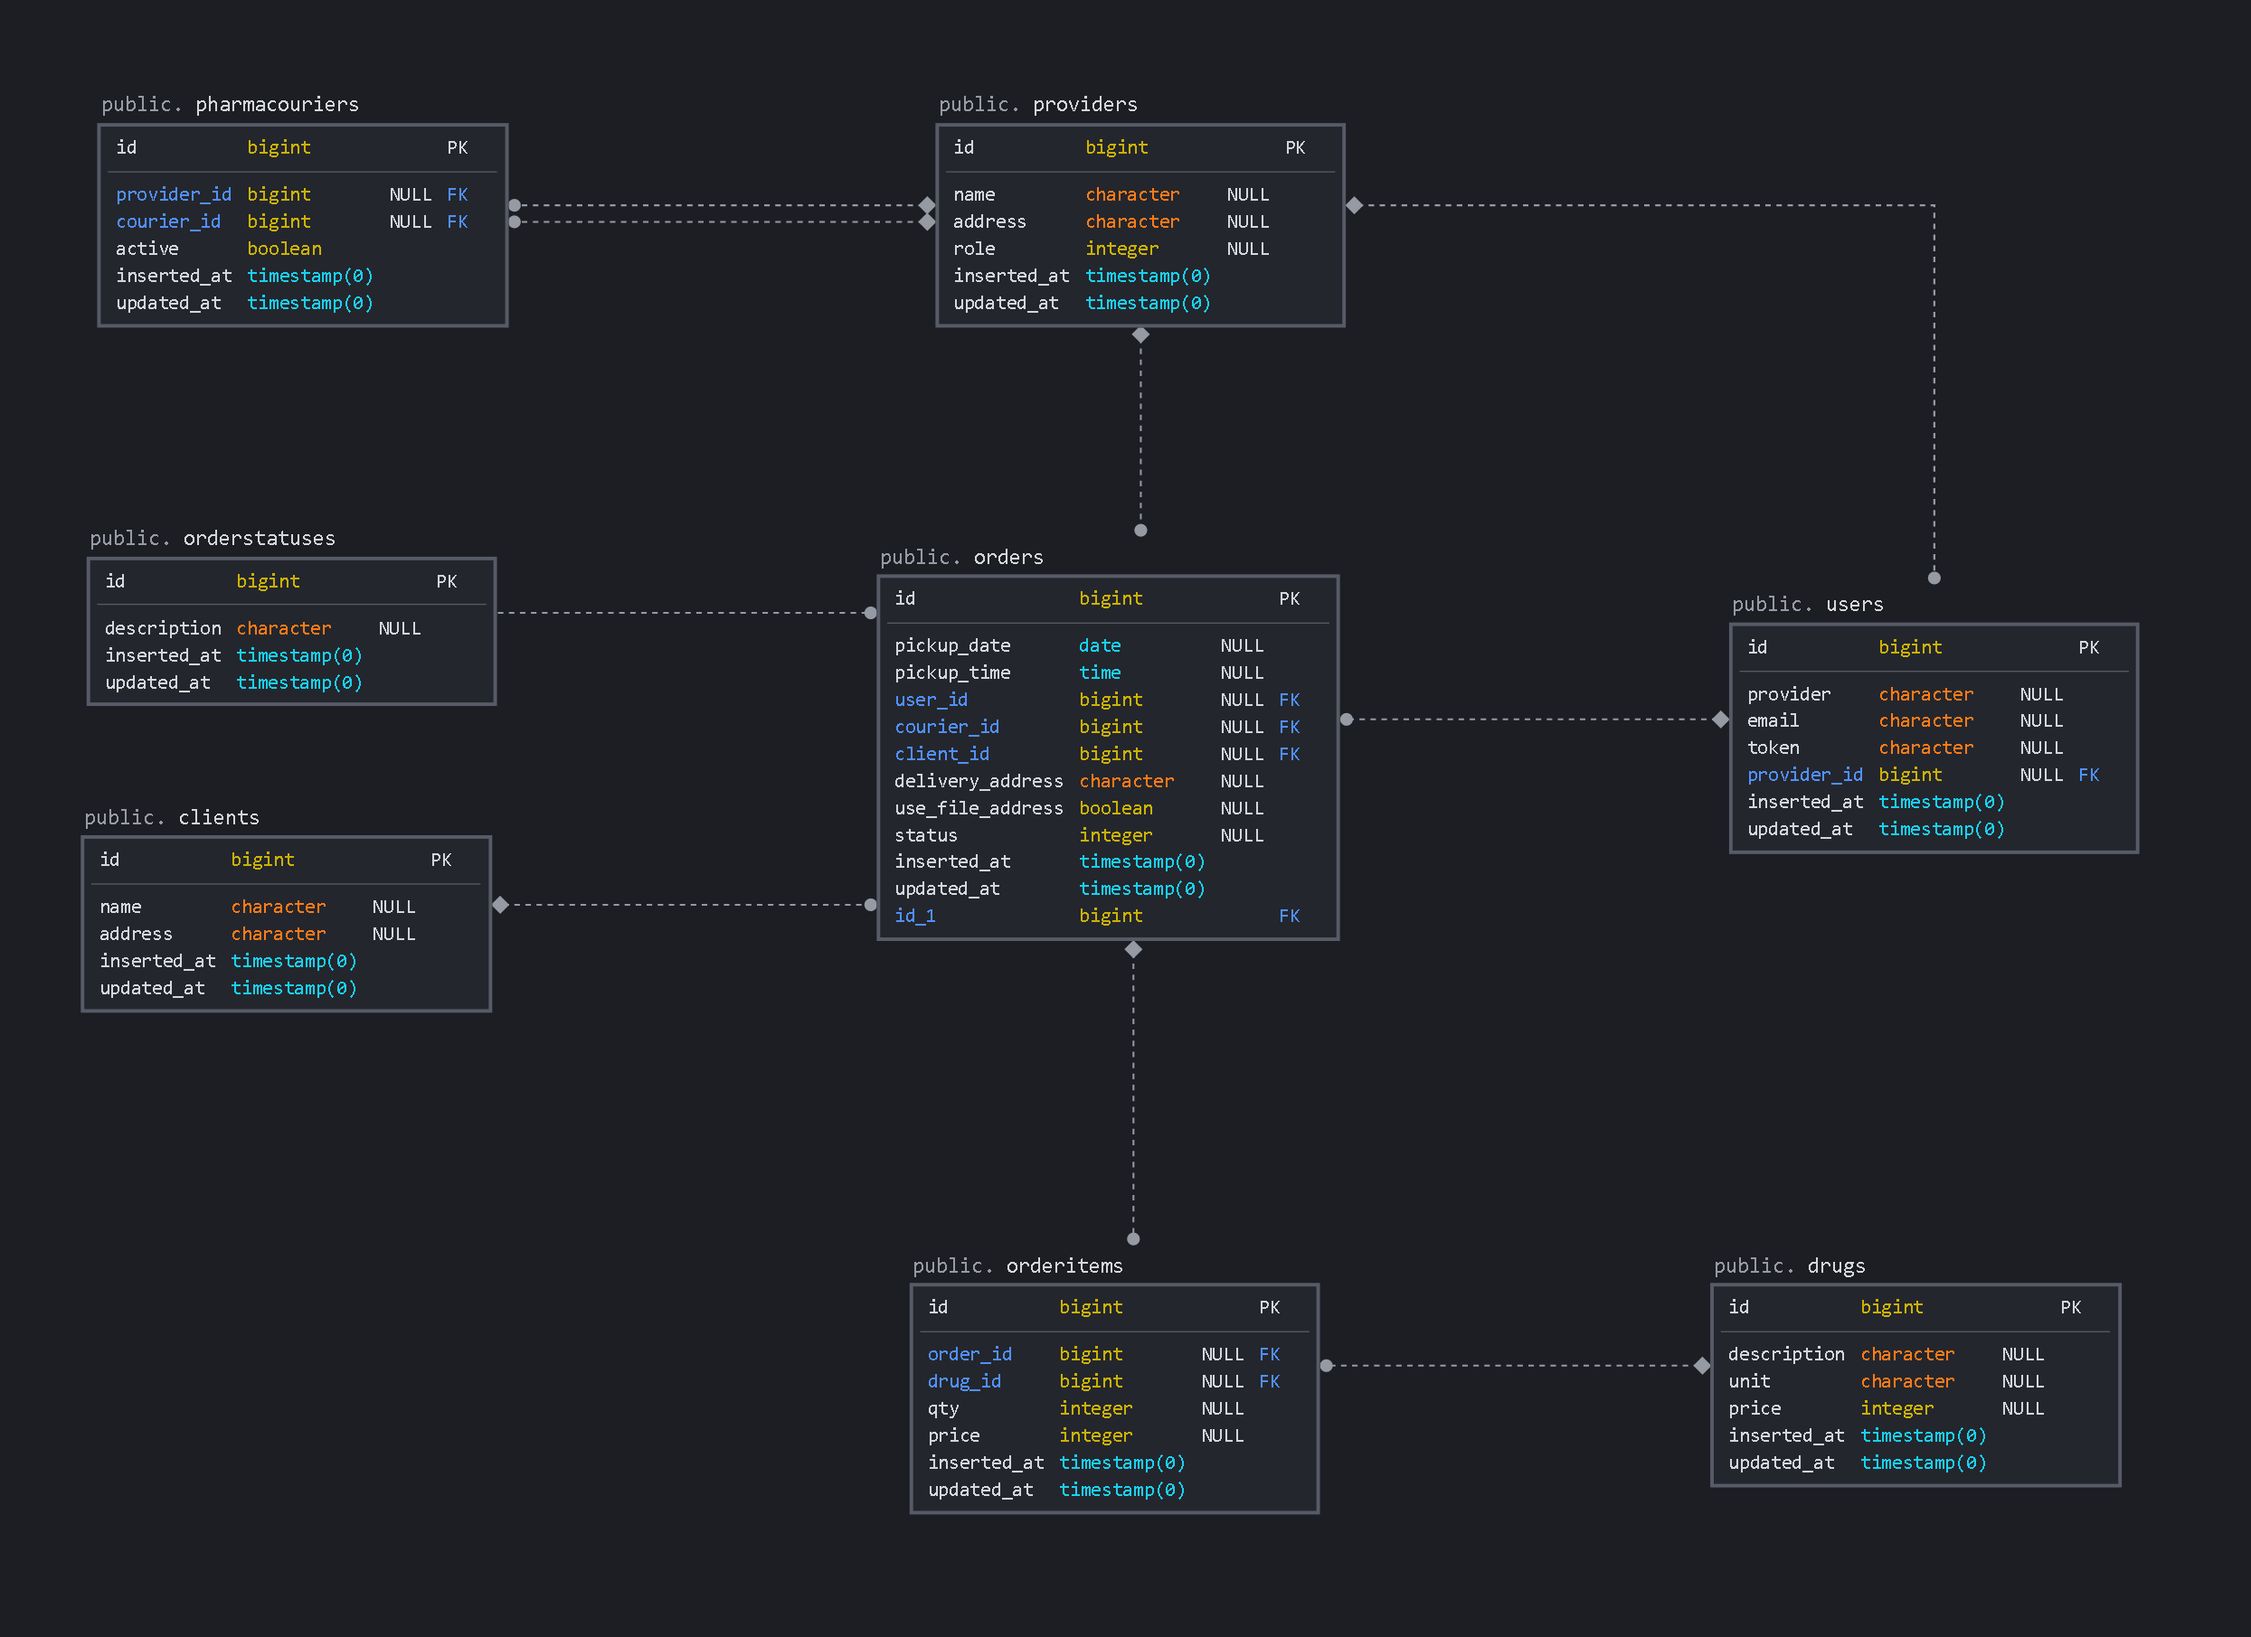
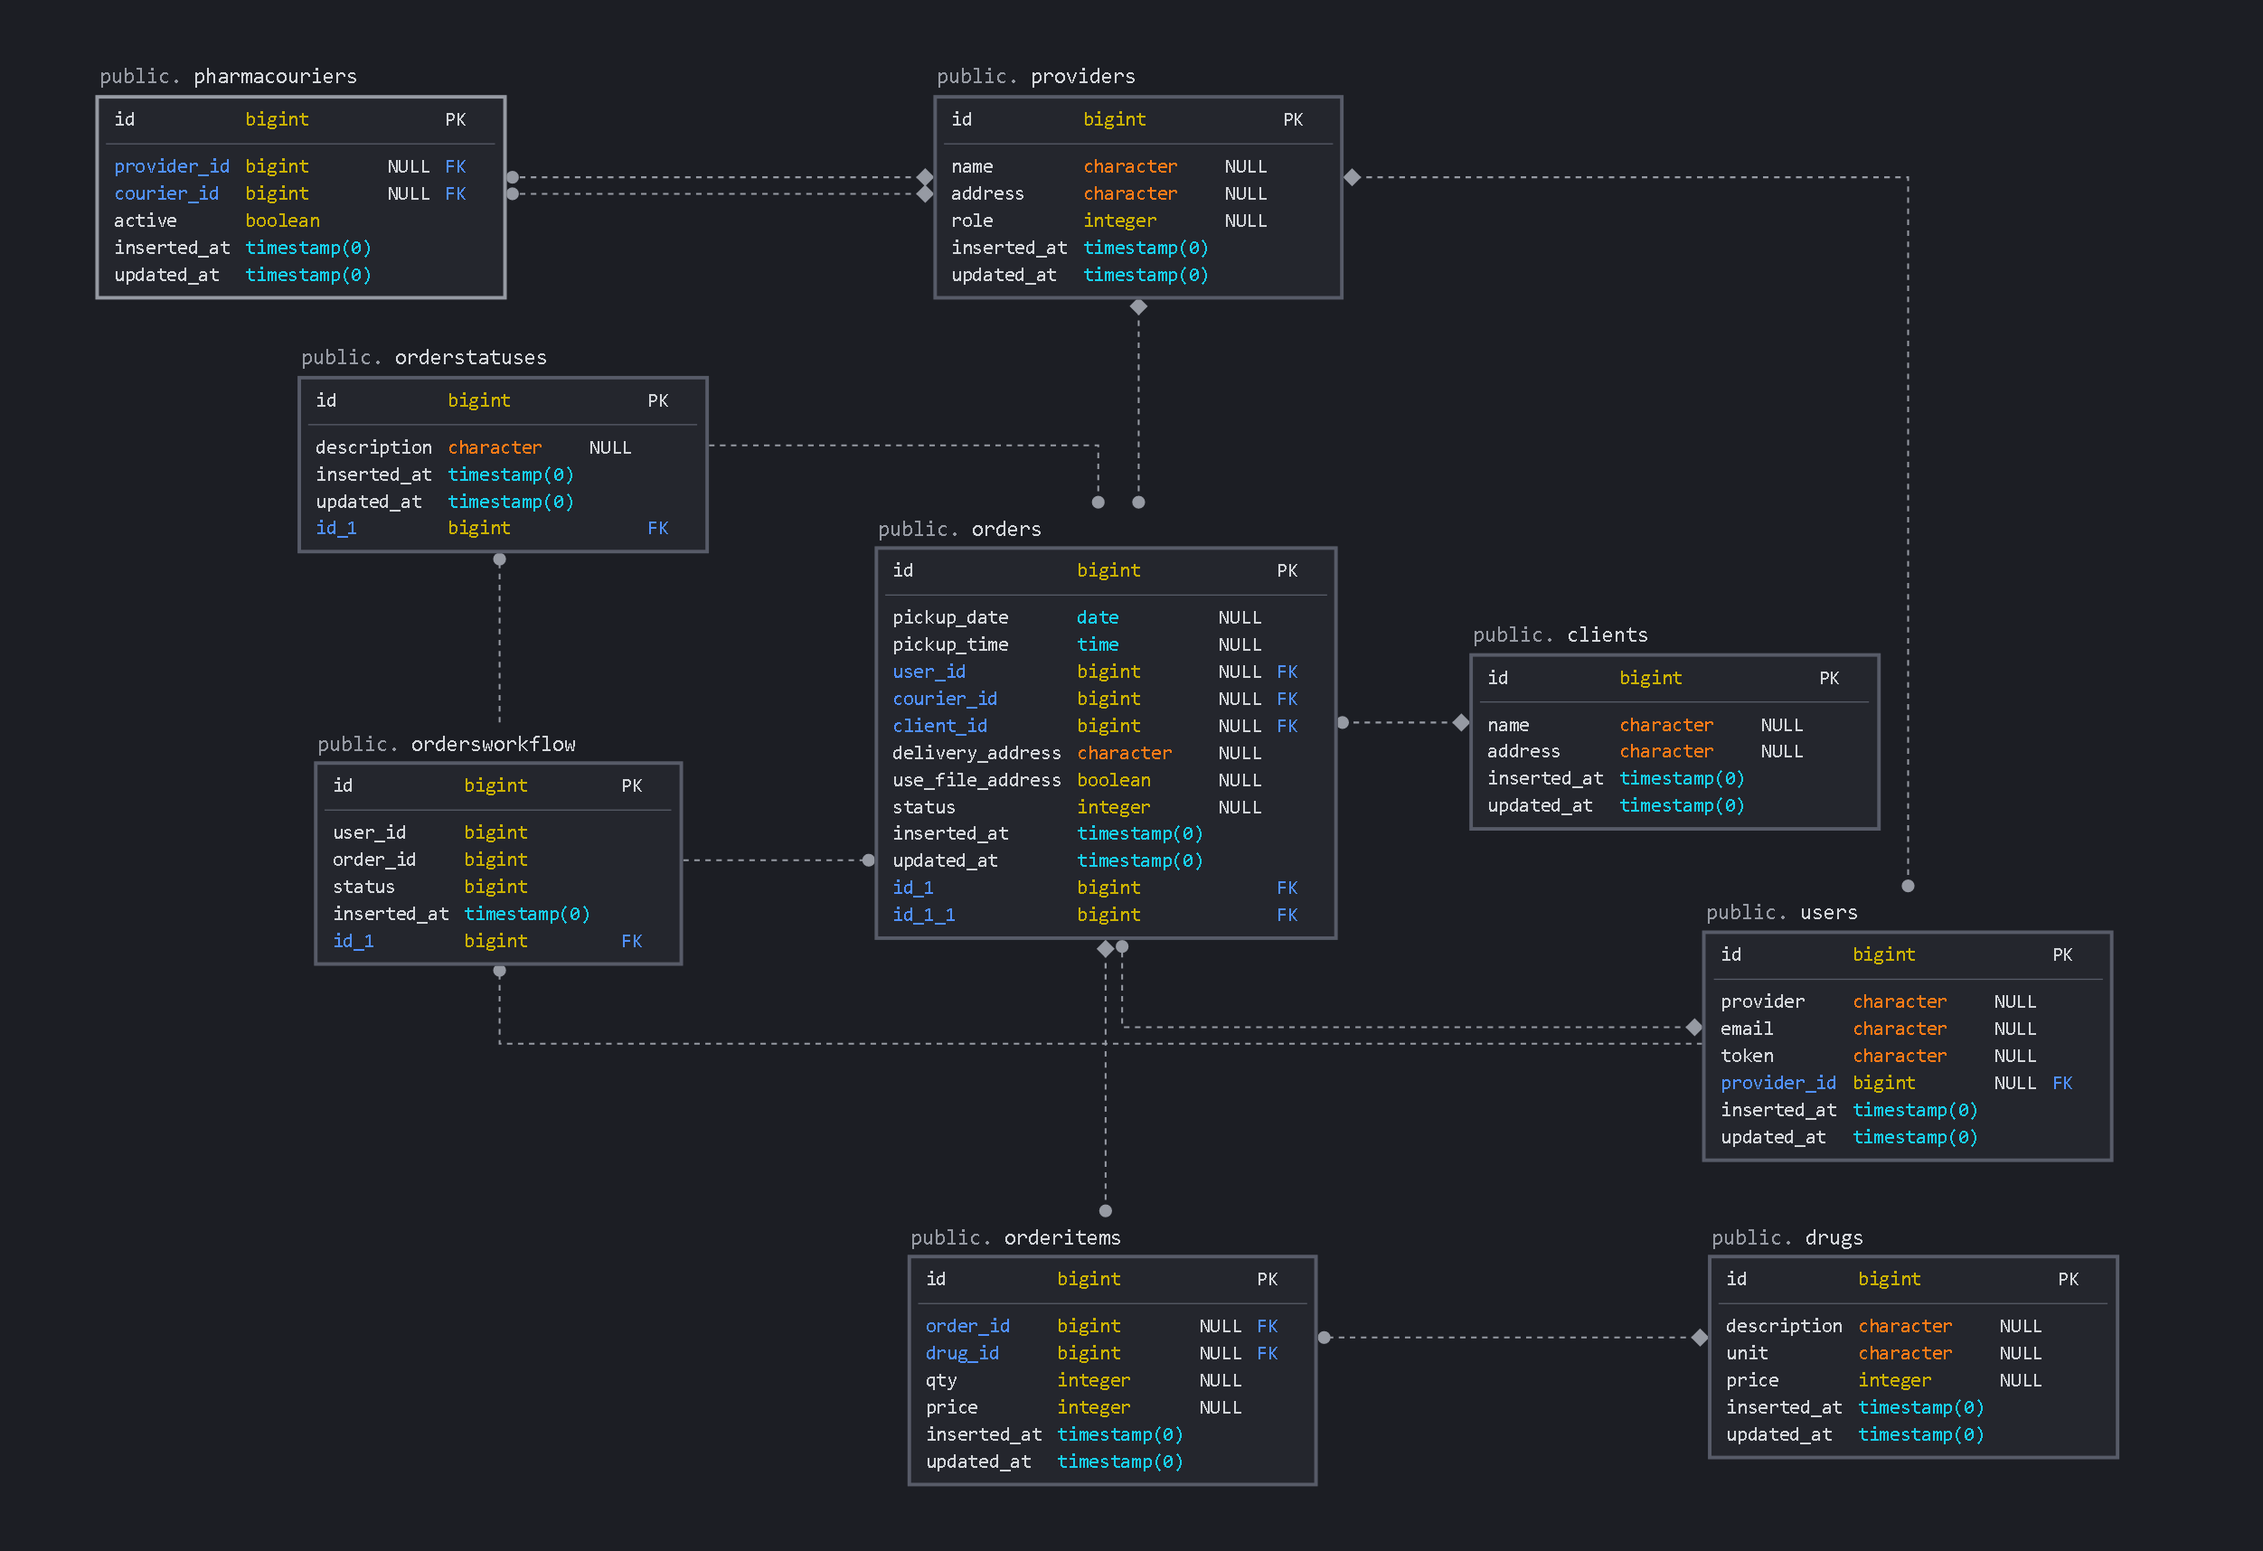
.

diff --git a/README.md b/README.md
@@ -105,7 +105,7 @@ I already created 2 GitHub accounts for test both already linked with Pharmacy a
   - Save
 
 # Database ERD
-![ERD](https://i.postimg.cc/dQ9kYBB5/scriptdropdb.png)
+![ERD](https://i.postimg.cc/QtpySqPT/scriptdropdb2-0.png)
 
 
 # Instalation
